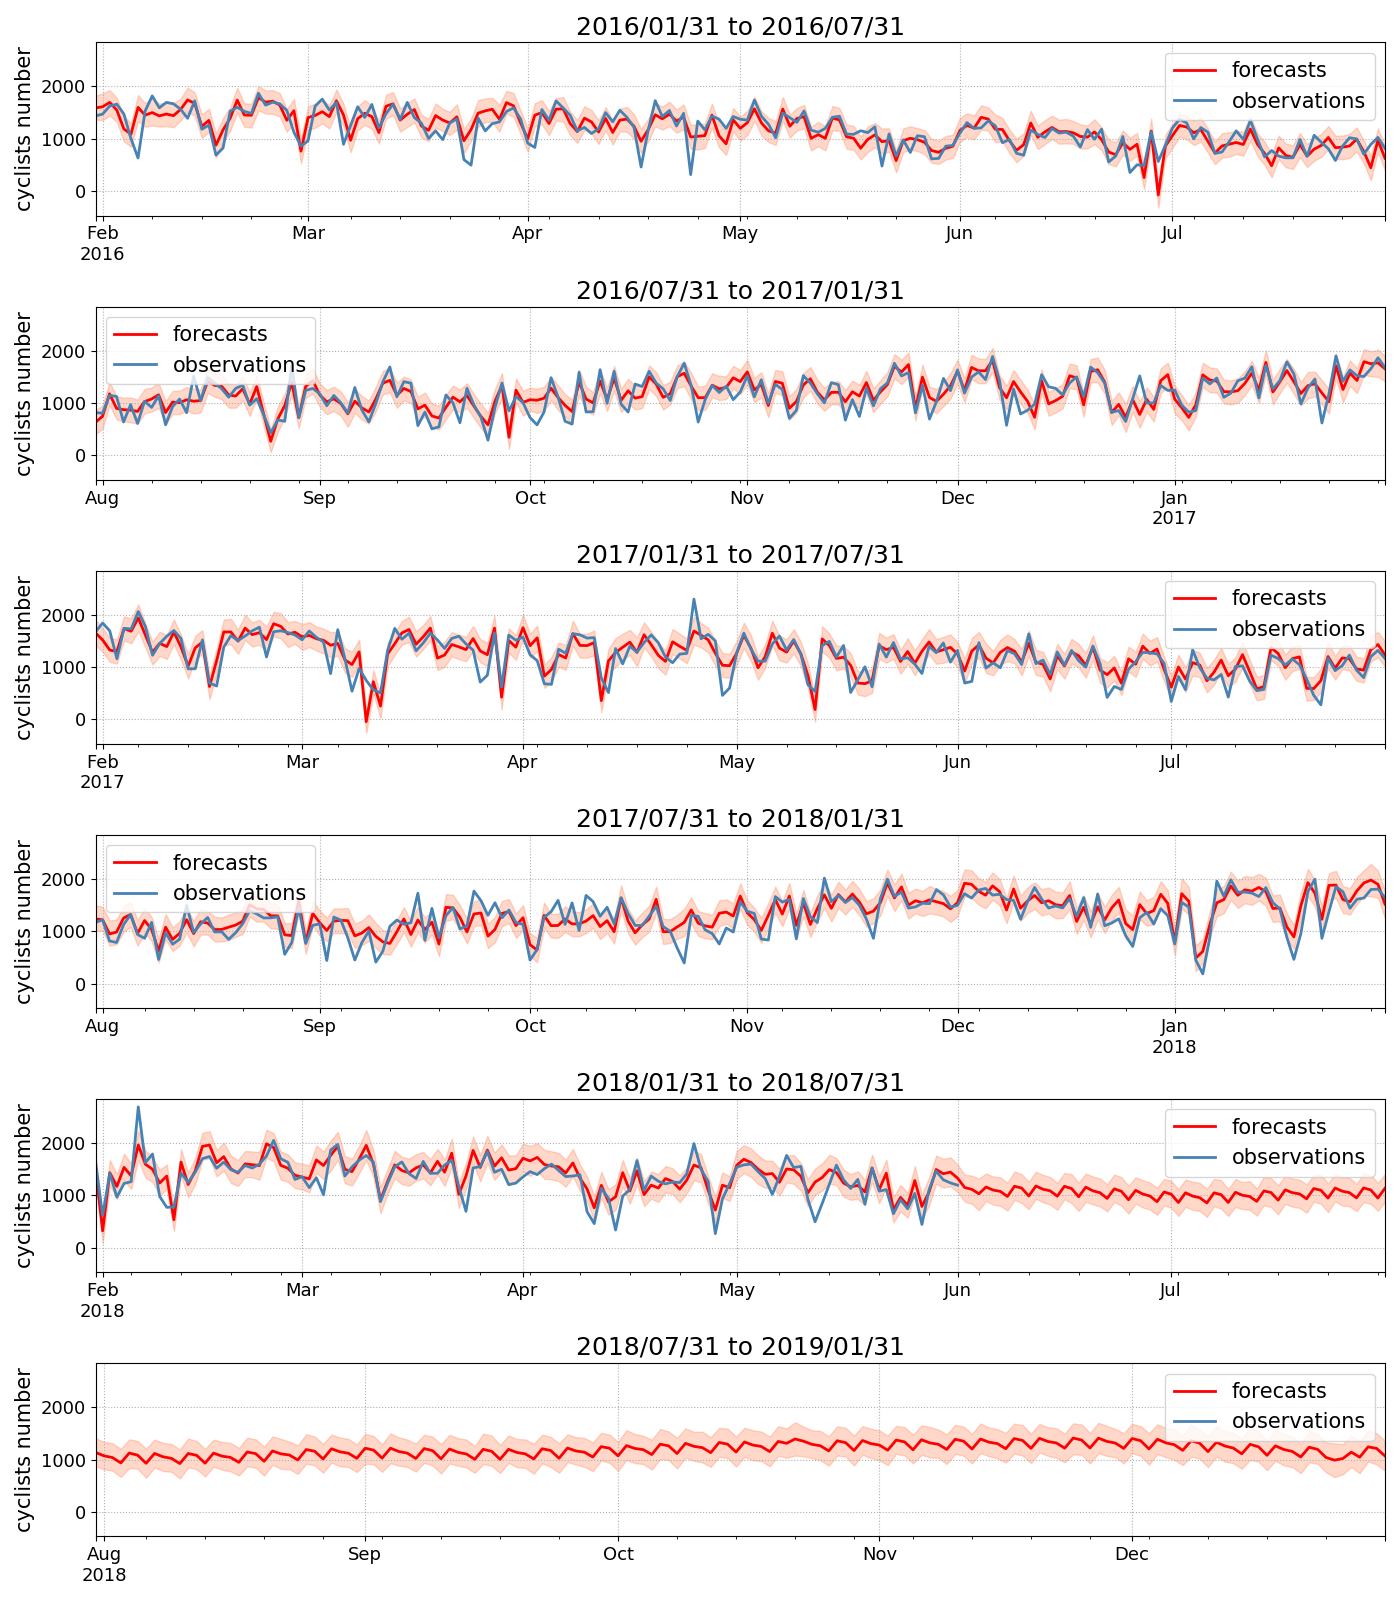
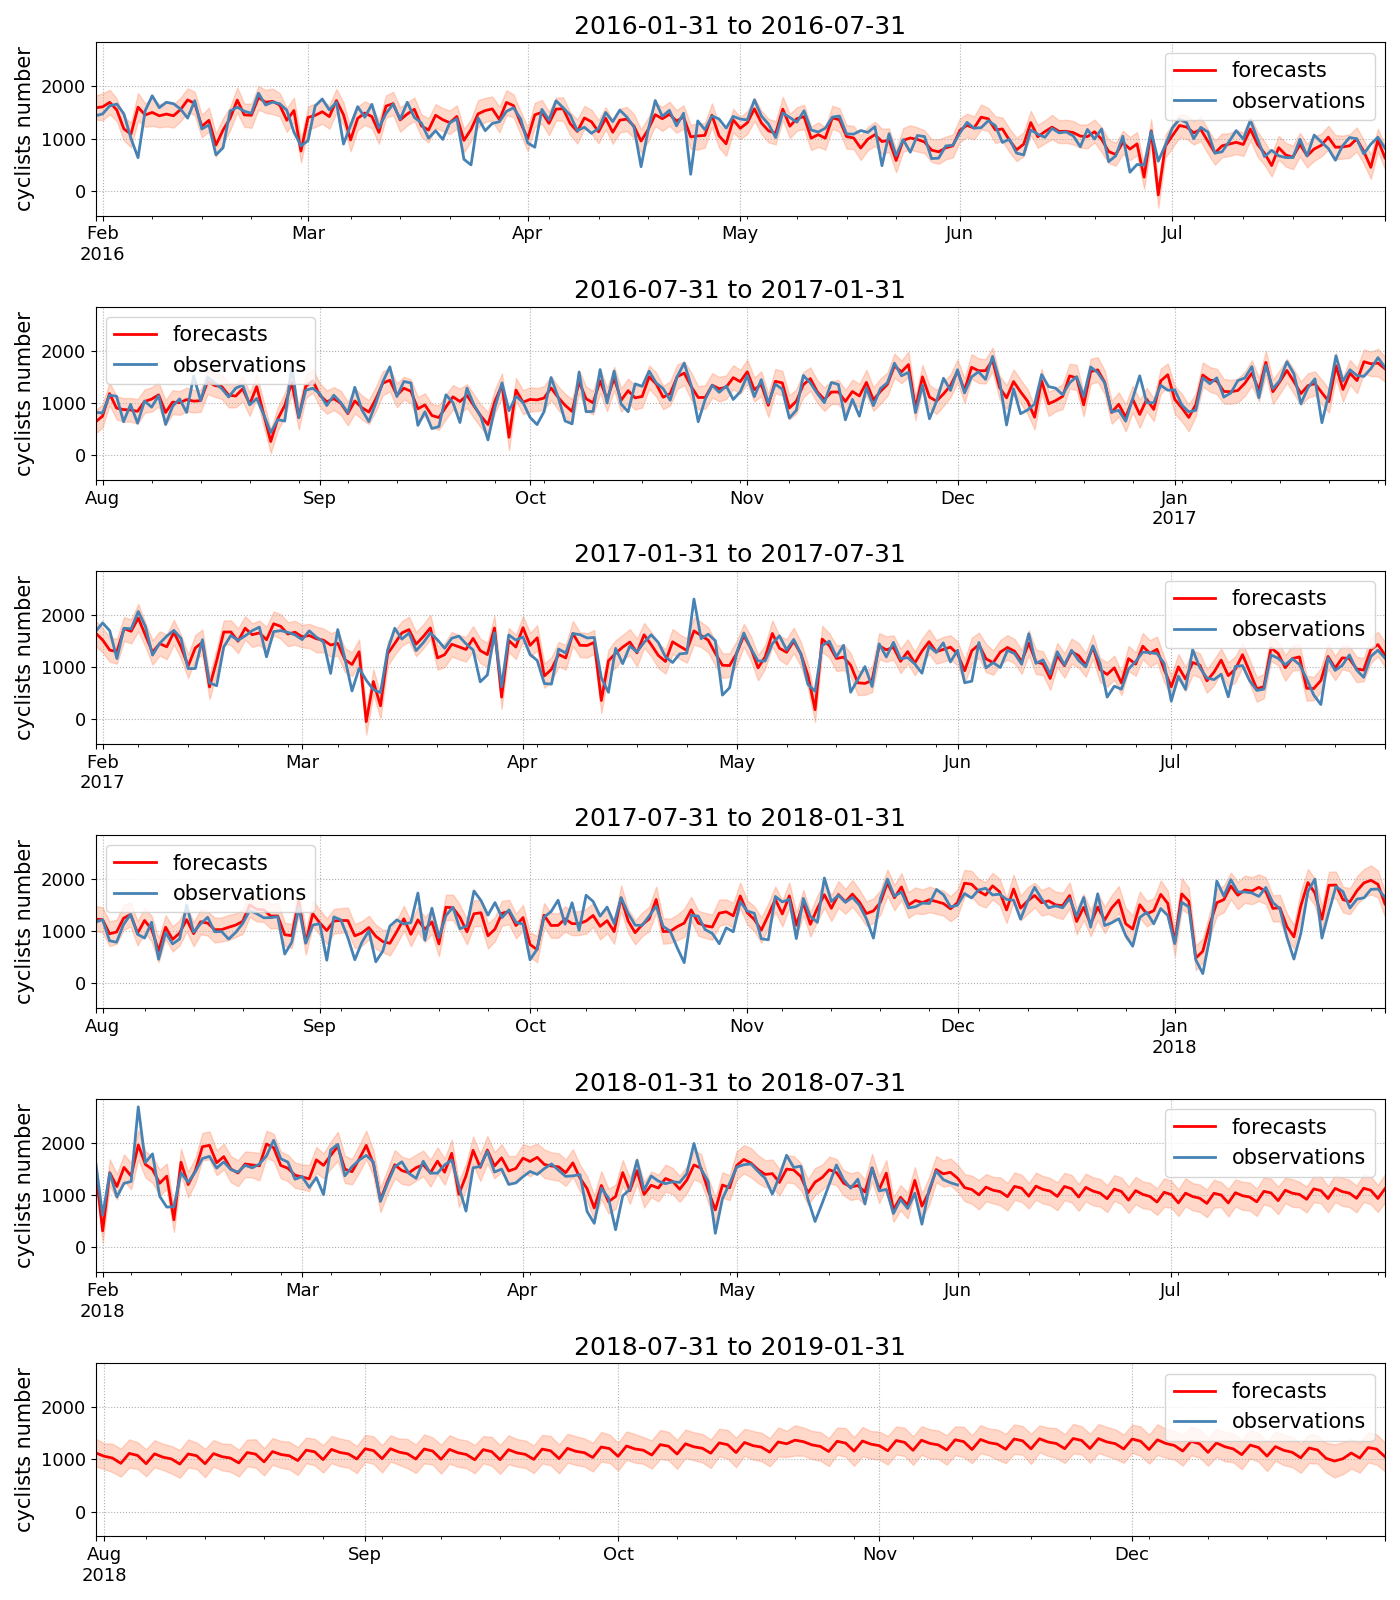
mod: support aggregated data like weekly data

diff --git a/app/dataset/auckset.py b/app/dataset/auckset.py
@@ -3,27 +3,34 @@ from .timeset import TimeSeriesDataset
 
 
 class DatasetCyclicAuckland(TimeSeriesDataset):
-    def __init__(self, data_file="data/data.tsv"):
+    def __init__(self, data_file="data/data.tsv", freq="D"):
         self.data_df = None
-        self.data_file = data_file
-        self._load()
         self.train_df = None
         self.test_df = None
 
+        self.data_file = data_file
+        self.freq = freq
+
+        self._load()._aggregate()
+        assert self.data_df.index.name == "ds"
+        assert "y" in self.data_df.columns
+
     def _load(self):
-        data_df = pandas.read_csv(self.data_file, sep="\t", header=0, parse_dates=True)
-        data_df.rename(columns=dict(datetime="ds"), inplace=True)
-        data_df.index = data_df.ds
-        assert "ds" in data_df.columns
-        assert "y" in data_df.columns
+        data_df = pandas.read_csv(
+            self.data_file, sep="\t", header=0, index_col="datetime", parse_dates=True
+        )
+        data_df.index.name = "ds"
         self.data_df = data_df
         return self
+
+    def _reset_index(self):
+        self.data_df.reset_index(inplace=True)
 
     def split(self, predict_date: str) -> (pandas.DataFrame, pandas.DataFrame):
         train_df = self.data_df[:predict_date].iloc[:-1]
         test_df = self.data_df[predict_date:]
-        train_df.reset_index(drop=True, inplace=True)
-        test_df.reset_index(drop=True, inplace=True)
+        train_df.reset_index(inplace=True)
+        test_df.reset_index(inplace=True)
         assert "ds" in train_df.columns
         assert "y" in train_df.columns
         assert "ds" in test_df.columns

diff --git a/app/utility/plotter.py b/app/utility/plotter.py
@@ -35,12 +35,20 @@ def make_verif(forecast, data_train, data_test):
     data_test.index = pandas.to_datetime(data_test.ds)
     data = pandas.concat([data_train, data_test], axis=0)
     forecast.loc[:, "y"] = data.loc[:, "y"]
+    forecast.reset_index(drop=True, inplace=True)
+    # for aggregated data like weekly data
+    s = forecast.ds.iloc[0]
+    e = forecast.ds.iloc[-1]
+    x = pandas.date_range(s, e, freq="D", name="ds").to_frame().reset_index(drop=True)
+    f = x.merge(forecast, on="ds")
+    f.index = f.ds
+    forecast = f
     return forecast
 
 
 def save_plot(img_file, forecast_df, train_df, test_df, plot_freq="6M"):
     verif = make_verif(forecast_df, train_df, test_df)
-    predicted_date = test_df.ds.iloc[0]
+    predict_date = test_df.ds.iloc[0].to_pydatetime()
 
     s = verif.ds.iloc[0]
     e = verif.ds.iloc[-1]
@@ -53,12 +61,12 @@ def save_plot(img_file, forecast_df, train_df, test_df, plot_freq="6M"):
     _, axes = pyplot.subplots(nrows=n, figsize=(14, 16), sharey=True)
 
     for idx, (s, e) in enumerate(zip(intervals[:-1], intervals[1:])):
-        s = s.strftime("%Y/%m/%d")
-        e = e.strftime("%Y/%m/%d")
         ax = axes[idx]
+        s = s.strftime("%Y-%m-%d")
+        e = e.strftime("%Y-%m-%d")
         make_plot_block(verif, s, e, ax=ax)
-        if s <= predicted_date <= e:
-            pyplot.axvline(x=predicted_date)
+        if s <= predict_date.strftime("%Y-%m-%d") <= e:
+            ax.axvline(x=predict_date)
     pyplot.tight_layout()
 
     pathlib.Path("img").mkdir(parents=True, exist_ok=True)

diff --git a/app/main.py b/app/main.py
@@ -1,5 +1,13 @@
+import yaml
+import pandas
 from fbprophet import Prophet
 import utility.plotter as plotter
+
+
+def load_params():
+    with open("main.yml", "r") as f:
+        params = yaml.load(f)
+    return params
 
 
 def create_model(holidays_df) -> Prophet:
@@ -18,21 +26,23 @@ def create_model(holidays_df) -> Prophet:
 
 
 if __name__ == "__main__":
-    import pandas
     from sklearn.pipeline import make_pipeline
     from model.prophet import PreprocessProphet, EstimatorProphet
     from dataset.auckset import DatasetCyclicAuckland
 
-    predict_date = "2016-01-01"
-    predict_by = "2018-12-31"
+    params = load_params()
+
+    freq = params["prediction"]["freq"]
+    predict_date = params["prediction"]["predict_date"]
+    predict_by = params["prediction"]["predict_by"]
 
     holidays_df = pandas.read_csv("data/holiday.tsv", sep="\t", header=0)
-    dcaset = DatasetCyclicAuckland()
+    dcaset = DatasetCyclicAuckland(freq=freq)
 
     # split dataset
     train_df, test_df = dcaset.split(predict_date)
 
-    predict_params = dict(predict_by=predict_by, freq="D")
+    predict_params = dict(predict_by=predict_by, freq=freq)
 
     # without exog
     m = create_model(holidays_df)

diff --git a/app/model/prophet.py b/app/model/prophet.py
@@ -48,6 +48,10 @@ class EstimatorProphet(Estimator):
         self.model.fit(train_df)
         self.trained_df = train_df
         self.trained_date = train_df.ds.iloc[-1]
+        if isinstance(self.trained_date, str):
+            self.trained_date = datetime.datetime.strptime(
+                self.trained_date, "%Y-%m-%d"
+            )
         return self
 
     def predict(self, predict_df, **params) -> pandas.DataFrame:
@@ -67,8 +71,7 @@ class EstimatorProphet(Estimator):
     ):
         predict_by = datetime.datetime.strptime(predict_by, "%Y-%m-%d")
         predict_df = predict_df.copy()
-        trained_date = datetime.datetime.strptime(self.trained_date, "%Y-%m-%d")
-        predict_date = trained_date + datetime.timedelta(1)
+        predict_date = self.trained_date + datetime.timedelta(1)
         future_date = (
             pandas.date_range(predict_date, predict_by, freq=freq, name="ds")
             .to_frame()

diff --git a/app/dataset/timeset.py b/app/dataset/timeset.py
@@ -1,10 +1,26 @@
+import pandas
+
+
 class TimeSeriesDataset(object):
-    def __init__(self, data_file="data/data.tsv"):
+    def __init__(self, data_file="data/data.tsv", freq="D"):
         self.data_df = None
         self.data_file = data_file
+        self._load()._aggregate()
 
     def _load(self):
-        raise NotImplementedError()
+        data_df = pandas.read_csv(
+            self.data_file, sep="\t", header=0, index_col="ds", parse_dates=True
+        )
+        assert "ds" in data_df.columns
+        assert "y" in data_df.columns
+        self.data_df = data_df
+        return self
+
+    def _aggregate(self):
+        self.data_df = self.data_df.resample(
+            self.freq, label="left", closed="left"
+        ).sum()
+        return self
 
     def split(self, predict_date: str):
         raise NotImplementedError()
